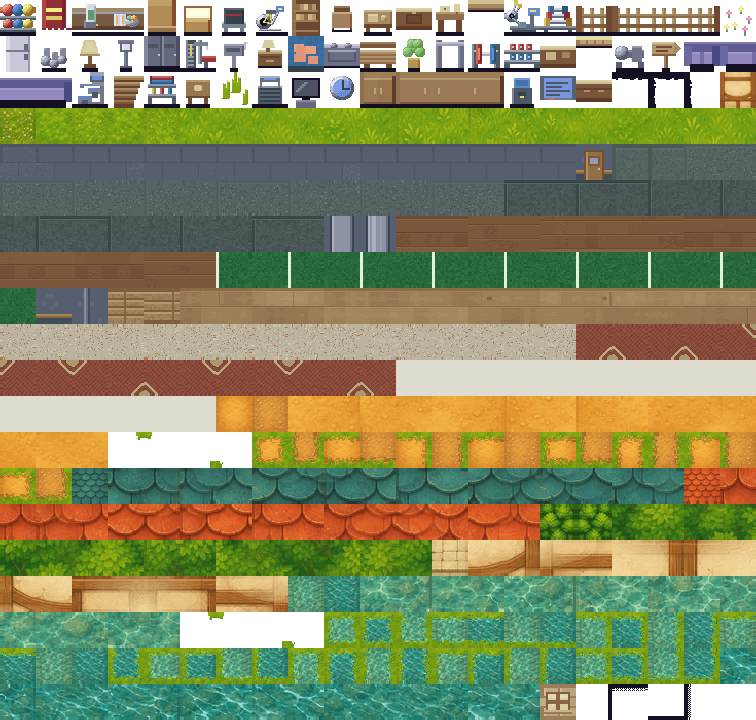
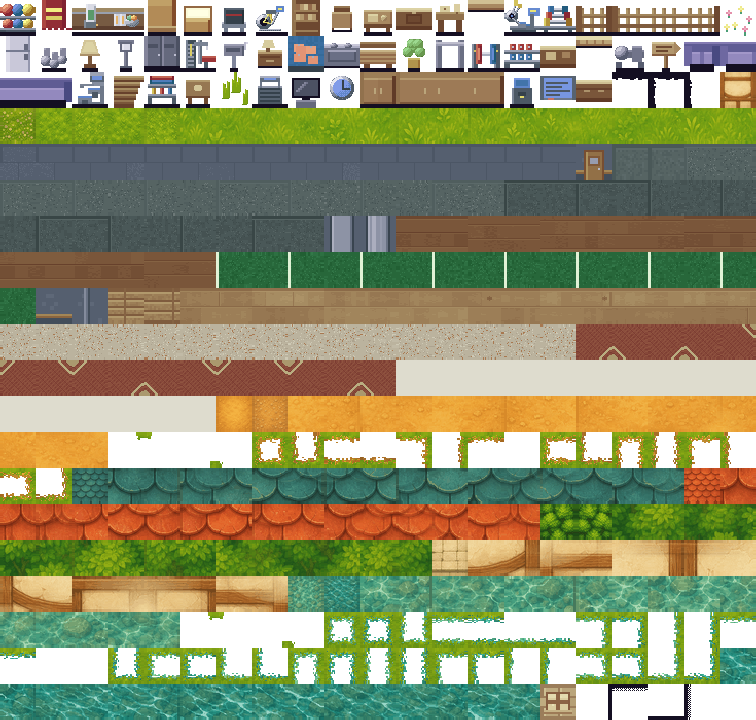
Make autotile masks edge overlays, so paths and ponds stop repeating per square
The gutter fix took the seam line off every tile edge, but the squares were
still there on the path and the pond. Different cause, same shape of mistake.

Autotiling has sixteen sprites per material, one per arrangement of
same-material neighbours, and the renderer drew one per square. Sixteen cannot
cover a wide path, so every square in the middle got m15 — the identical tile,
stamped over and over. That is the material's own texture repeating once per
tile, which reads as a grid whatever is done about the seams between them. The
grass never had this because ground is a FIELD: one texture windowed across a
4x4 block.

So the masks lose their interiors. `blended_tile` leaves the material's inside
transparent and keeps only the boundary — the grass outside it, the rim just
within it, and the scatter dithered out into the ground. `TileMap` lays the
continuous field down first and drops the mask on top. The middle of a path is
now the field running unbroken, and only its edge is autotiled — an edge being
the one place a repeat cannot show, because its shape changes tile to tile
anyway.

Water gets the same treatment, with the second animation frame taking its own
field ('tile_waterb'), so open water is as continuous as a path and still
blinks.

An earlier attempt used the field only where a square was fully surrounded and
kept m15 elsewhere. That is in neither the code nor this commit: the path field
[…]

Changed region(s): [[0.0, 0.825, 1.0, 0.9472], [0.3347, 0.5806, 1.0, 0.6722], [0.0, 0.6417, 0.0913, 0.7028]]

diff --git a/src/components/TileMap.js b/src/components/TileMap.js
@@ -217,6 +217,18 @@ const FIELD_BY_MAP = {
   route_deephorizon: 'tile_gym_floor',
 };
 
+// Autotile sprites are EDGE OVERLAYS, not whole tiles.
+//
+// There are only sixteen of them — one per arrangement of same-material
+// neighbours — so drawing one per square stamped the identical sprite across
+// the middle of every path and pond: the material's own texture repeating once
+// per tile, which reads as a grid of squares however well the seams are hidden.
+//
+// Their interiors are punched out in `blended_tile`, so every square draws the
+// continuous field FIRST and the mask on top. The middle of a path is the field
+// running unbroken; only its edge is autotiled, and an edge is the one place a
+// repeat cannot show, because its shape changes tile to tile anyway.
+
 function groundKey(prefix, x, y) {
   const col = ((x % FIELD_SPAN) + FIELD_SPAN) % FIELD_SPAN;
   const row = ((y % FIELD_SPAN) + FIELD_SPAN) % FIELD_SPAN;
@@ -342,11 +354,18 @@ function layersFor(map, code, x, y, frame, floor, wallField) {
   // does not need '#' to mean rubber.
   if (PATH_CODES.has(code)) {
     const mask = maskAt(map, x, y, PATH_CODES);
-    layers = [{ key: `tile_path_m${mask}` }, ...innerCorners(map, x, y, PATH_CODES, 'tile_path')];
+    layers = [
+      { key: groundKey('tile_path', x, y) },
+      { key: `tile_path_m${mask}` },
+      ...innerCorners(map, x, y, PATH_CODES, 'tile_path'),
+    ];
   } else if (!floor && WATER_CODES.has(code)) {
     const mask = maskAt(map, x, y, WATER_CODES);
     const suffix = frame % 2 ? '_b' : '';
     layers = [
+      // The second animation frame has its own field, so open water is as
+      // continuous as a path and still blinks.
+      { key: groundKey(suffix ? 'tile_waterb' : 'tile_water', x, y) },
       { key: `tile_water_m${mask}${suffix}` },
       ...innerCorners(map, x, y, WATER_CODES, 'tile_water'),
     ];

diff --git a/tools/make_sprites.py b/tools/make_sprites.py
@@ -2252,7 +2252,24 @@ def _shift(hex_color, mul):
 
 
 def blended_tile(ground, over, mask, seed, rim_mul=0.72):
-    """One painted material laid over another along a soft, noisy boundary."""
+    """The EDGE of one painted material over another, along a soft, noisy
+    boundary. The material's interior is left transparent.
+
+    These sixteen sprites used to carry their own interior fill, and the
+    renderer drew one of them per square. There are only sixteen, so every
+    square in the middle of a path or a pond got the identical tile — the
+    material's own texture repeating once per tile, which is a grid of squares
+    however well the seams between them are hidden.
+
+    Punching the interior out makes each one an OVERLAY. The renderer lays the
+    continuous field down first — one texture windowed across a 4x4 block — and
+    drops this on top, so the middle of a path is the field running unbroken
+    and only its edge is autotiled. An edge is the one place a repeat does not
+    show, because the shape changes from tile to tile anyway.
+
+    `scatter` stays opaque: it is material dithered OUT into the ground, which
+    lives outside the interior and has nothing under it to show through.
+    """
     g = _raw_traced(ground)
     o = _raw_traced(over)
     if not g or not o:
@@ -2273,7 +2290,9 @@ def blended_tile(ground, over, mask, seed, rim_mul=0.72):
             oi = TRACE_INDEX[o['rows'][y][x]] - 1
             if (x, y) in rim:
                 row += DIGITS[rim_base + oi]
-            elif (x, y) in inside or (x, y) in scatter:
+            elif (x, y) in inside:
+                row += TRANSPARENT              # the field shows through here
+            elif (x, y) in scatter:
                 row += DIGITS[o_off + oi]
             else:
                 row += DIGITS[g_off + gi]

diff --git a/docs/GAME_BIBLE.md b/docs/GAME_BIBLE.md
@@ -1020,6 +1020,15 @@ Kinship Knot.
   chunks was most of what made the floors read as blocky. Removed from all seven
   indoor fields. A periodic falloff tiles seamlessly and was tried: it trades
   the grid for soft blobs that read as dirt.
+- Autotile masks are EDGE OVERLAYS, not whole tiles. There are only sixteen per
+  material — one per arrangement of same-material neighbours — so drawing one
+  per square stamped the identical sprite across the middle of every path and
+  pond: the material's own texture repeating once per tile, which reads as a
+  grid of squares however well the seams between them are hidden. `blended_tile`
+  punches the interior out, and `TileMap` lays the continuous FIELD down first
+  and the mask on top. The middle of a path is the field running unbroken; only
+  its edge is autotiled, and an edge is the one place a repeat cannot show,
+  because its shape changes tile to tile anyway.
 - Multi-tile furniture autotiles (`RUN_PROPS`): a two-tile sofa was two sofas
   with four arms. `_l`/`_m`/`_r` are picked from a prop's own neighbours, the
   same way a path picks its edge.
